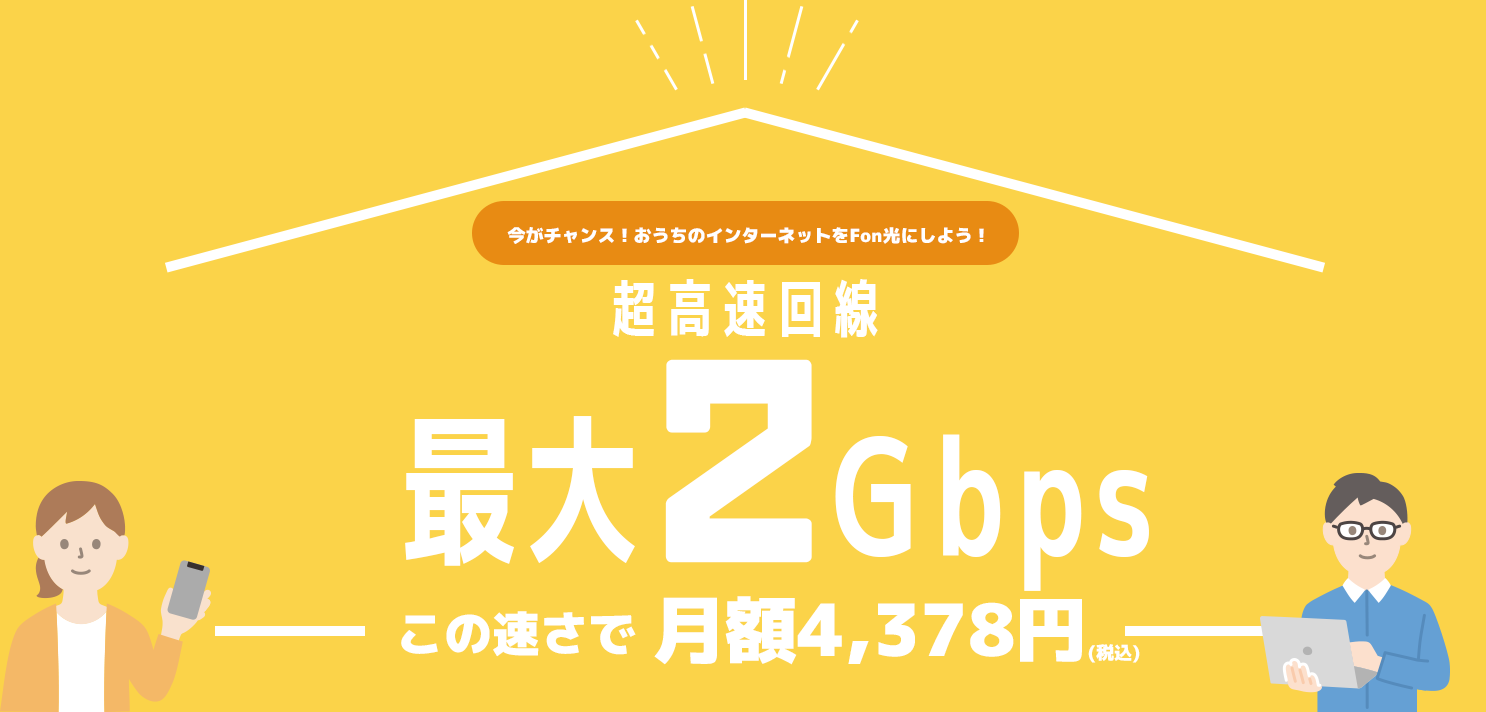
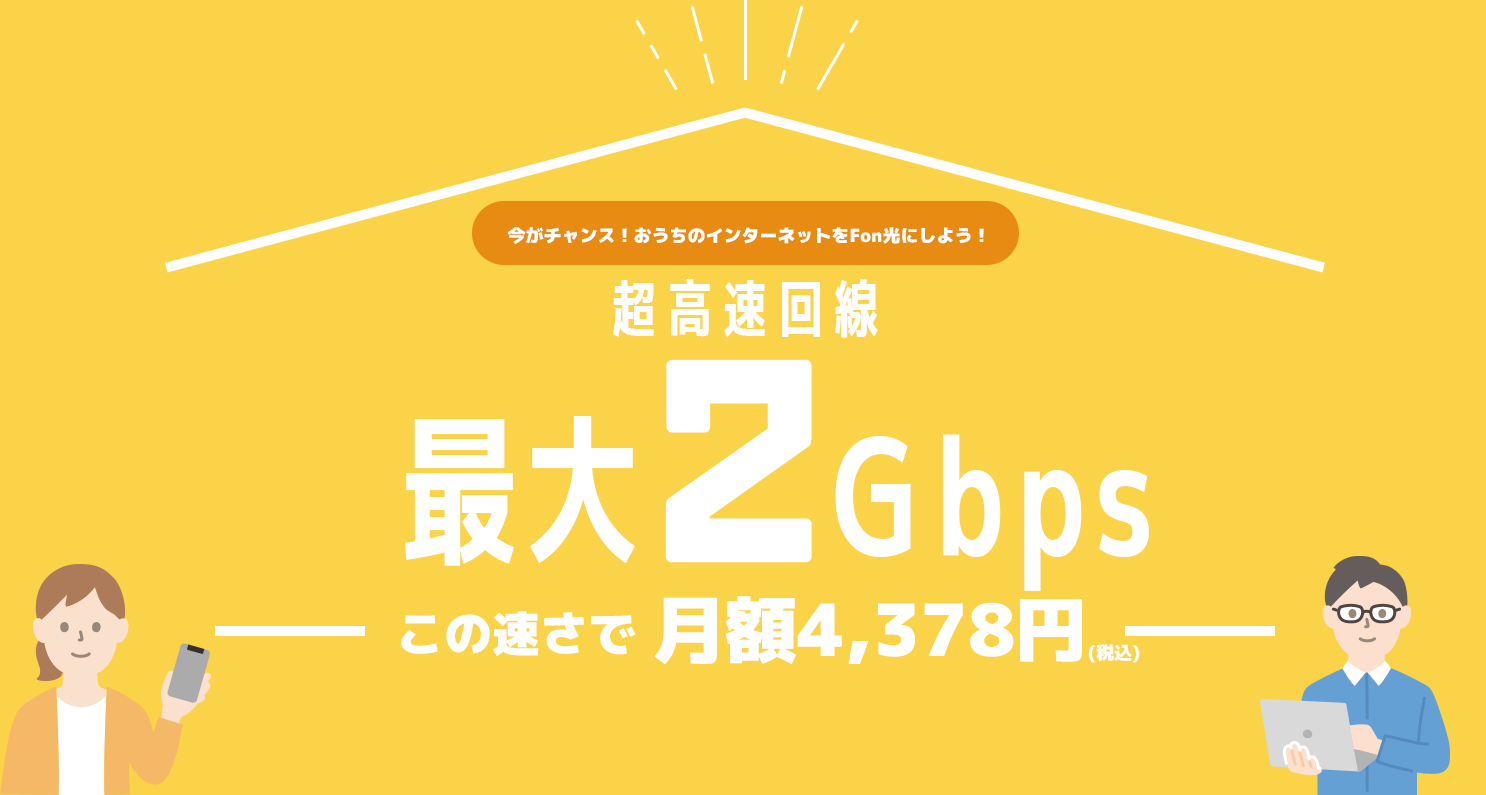
add form btn

diff --git a/htdocs/css/style_lp.scss b/htdocs/css/style_lp.scss
@@ -245,10 +245,13 @@ footer {
 
 
 
+
 /*-----top-----*/
 #top{
     background: #fbd349;
     color: #fff;
+    position: relative;
+    width: 100%;
     article{
         width: 90%;
         max-width: 1486px;
@@ -256,6 +259,95 @@ footer {
         margin: 0 auto;
         text-align: center;
         padding-top: 10vh;
+        position: relative;
+        a{
+            color: #fff;
+            text-align: center;
+            text-decoration: none;
+            display: block;
+            background: #50ab4c;
+            padding: 15px;
+            border-radius: 5px;
+            width: 200px;
+            margin: 0 auto;
+            position: absolute;
+            bottom: -30px;
+            left: 0;
+            right: 0;
+            font-size: 18px;
+        }
+    }
+    .scroll{
+        position: absolute;
+        color: #fff;
+        bottom: 90px;
+        left: 0;
+        right: 0;
+        margin: auto;
+        z-index: 9;
+    }
+    .scroll:after{
+        position: absolute;
+        right: 0;
+        left: 0;
+        animation: elasticus 1.2s cubic-bezier(1, 0, 0, 1) infinite;
+        background: #fff;
+        content: '';
+        display: block;
+        margin: 0 auto;
+        width: 2px;
+        height: 80px;
+        z-index: 9;
+    }
+    @keyframes elasticus{
+        0% {
+            -webkit-transform-origin: 0% 0%;
+            -moz-transform-origin: 0% 0%;
+            -o-transform-origin: 0% 0%;
+            -ms-transform-origin: 0% 0%;
+            transform-origin: 0% 0%;
+            -webkit-transform: scale(1, 0);
+            -moz-transform: scale(1, 0);
+            -o-transform: scale(1, 0);
+            -ms-transform: scale(1, 0);
+            transform: scale(1, 0);
+        }
+        50% {
+            -webkit-transform-origin: 0% 0%;
+            -moz-transform-origin: 0% 0%;
+            -o-transform-origin: 0% 0%;
+            -ms-transform-origin: 0% 0%;
+            transform-origin: 0% 0%;
+            -webkit-transform: scale(1, 1);
+            -moz-transform: scale(1, 1);
+            -o-transform: scale(1, 1);
+            -ms-transform: scale(1, 1);
+            transform: scale(1, 1);
+        }
+        50.1% {
+            -webkit-transform-origin: 0% 100%;
+            -moz-transform-origin: 0% 100%;
+            -o-transform-origin: 0% 100%;
+            -ms-transform-origin: 0% 100%;
+            transform-origin: 0% 100%;
+            -webkit-transform: scale(1, 1);
+            -moz-transform: scale(1, 1);
+            -o-transform: scale(1, 1);
+            -ms-transform: scale(1, 1);
+            transform: scale(1, 1);
+        }
+        100% {
+            -webkit-transform-origin: 0% 100%;
+            -moz-transform-origin: 0% 100%;
+            -o-transform-origin: 0% 100%;
+            -ms-transform-origin: 0% 100%;
+            transform-origin: 0% 100%;
+            -webkit-transform: scale(1, 0);
+            -moz-transform: scale(1, 0);
+            -o-transform: scale(1, 0);
+            -ms-transform: scale(1, 0);
+            transform: scale(1, 0);
+        }
     }
 }
 
@@ -274,7 +366,7 @@ footer {
             text-align: center;
             font-size: 30px;
             font-weight: 600;
-            margin-bottom: 15px;
+            margin: 15px 0;
             img{
                 height: 40px;
                 vertical-align: baseline;
@@ -1257,6 +1349,13 @@ footer {
             margin: 0 auto;
             text-align: center;
             padding-top: 7vh;
+            padding-bottom: 50px;
+            .scroll{
+                bottom: 55px;
+            }
+            .scroll:after{
+                height: 40px;
+            }
         }
     }
 

diff --git a/htdocs/css/style_lp.css b/htdocs/css/style_lp.css
@@ -219,15 +219,95 @@ footer {
 /*-----top-----*/
 #top {
   background: #fbd349;
-  color: #fff; }
+  color: #fff;
+  position: relative;
+  width: 100%; }
   #top article {
     width: 90%;
     max-width: 1486px;
     height: 100%;
     margin: 0 auto;
     text-align: center;
-    padding-top: 10vh; }
-
+    padding-top: 10vh;
+    position: relative; }
+    #top article a {
+      color: #fff;
+      text-align: center;
+      text-decoration: none;
+      display: block;
+      background: #50ab4c;
+      padding: 15px;
+      border-radius: 5px;
+      width: 200px;
+      margin: 0 auto;
+      position: absolute;
+      bottom: -30px;
+      left: 0;
+      right: 0;
+      font-size: 18px; }
+  #top .scroll {
+    position: absolute;
+    color: #fff;
+    bottom: 90px;
+    left: 0;
+    right: 0;
+    margin: auto;
+    z-index: 9; }
+  #top .scroll:after {
+    position: absolute;
+    right: 0;
+    left: 0;
+    -webkit-animation: elasticus 1.2s cubic-bezier(1, 0, 0, 1) infinite;
+            animation: elasticus 1.2s cubic-bezier(1, 0, 0, 1) infinite;
+    background: #fff;
+    content: '';
+    display: block;
+    margin: 0 auto;
+    width: 2px;
+    height: 80px;
+    z-index: 9; }
+@-webkit-keyframes elasticus {
+  0% {
+    -webkit-transform-origin: 0% 0%;
+    transform-origin: 0% 0%;
+    -webkit-transform: scale(1, 0);
+    transform: scale(1, 0); }
+  50% {
+    -webkit-transform-origin: 0% 0%;
+    transform-origin: 0% 0%;
+    -webkit-transform: scale(1, 1);
+    transform: scale(1, 1); }
+  50.1% {
+    -webkit-transform-origin: 0% 100%;
+    transform-origin: 0% 100%;
+    -webkit-transform: scale(1, 1);
+    transform: scale(1, 1); }
+  100% {
+    -webkit-transform-origin: 0% 100%;
+    transform-origin: 0% 100%;
+    -webkit-transform: scale(1, 0);
+    transform: scale(1, 0); } }
+@keyframes elasticus {
+  0% {
+    -webkit-transform-origin: 0% 0%;
+    transform-origin: 0% 0%;
+    -webkit-transform: scale(1, 0);
+    transform: scale(1, 0); }
+  50% {
+    -webkit-transform-origin: 0% 0%;
+    transform-origin: 0% 0%;
+    -webkit-transform: scale(1, 1);
+    transform: scale(1, 1); }
+  50.1% {
+    -webkit-transform-origin: 0% 100%;
+    transform-origin: 0% 100%;
+    -webkit-transform: scale(1, 1);
+    transform: scale(1, 1); }
+  100% {
+    -webkit-transform-origin: 0% 100%;
+    transform-origin: 0% 100%;
+    -webkit-transform: scale(1, 0);
+    transform: scale(1, 0); } }
 /*-----recommend-----*/
 #recommend {
   padding: 50px 0; }
@@ -243,7 +323,7 @@ footer {
       text-align: center;
       font-size: 30px;
       font-weight: 600;
-      margin-bottom: 15px; }
+      margin: 15px 0; }
       #recommend article h2 img {
         height: 40px;
         vertical-align: baseline; }
@@ -1063,7 +1143,12 @@ footer {
       height: 100%;
       margin: 0 auto;
       text-align: center;
-      padding-top: 7vh; }
+      padding-top: 7vh;
+      padding-bottom: 50px; }
+      #top article .scroll {
+        bottom: 55px; }
+      #top article .scroll:after {
+        height: 40px; }
 
   /*-----recommend-----*/
   #recommend {

diff --git a/htdocs/ta/index.php b/htdocs/ta/index.php
@@ -48,6 +48,8 @@ $(function() {
             <article>
                 <h1><img src="img/top.png" alt="今がチャンス！おうちのインターネットをFon光にしよう！超高速回線最大2Gbps この速さで月額4,378円" class="pc">
                 <img src="img/top_sp.png" alt="今がチャンス！おうちのインターネットをFon光にしよう！超高速回線最大2Gbps この速さで月額4,378円" class="sp"></h1>
+                <div class="scroll"></div>
+                <a href="/area.php">今すぐエリア確認</a>
             </article>
         </section>
 
